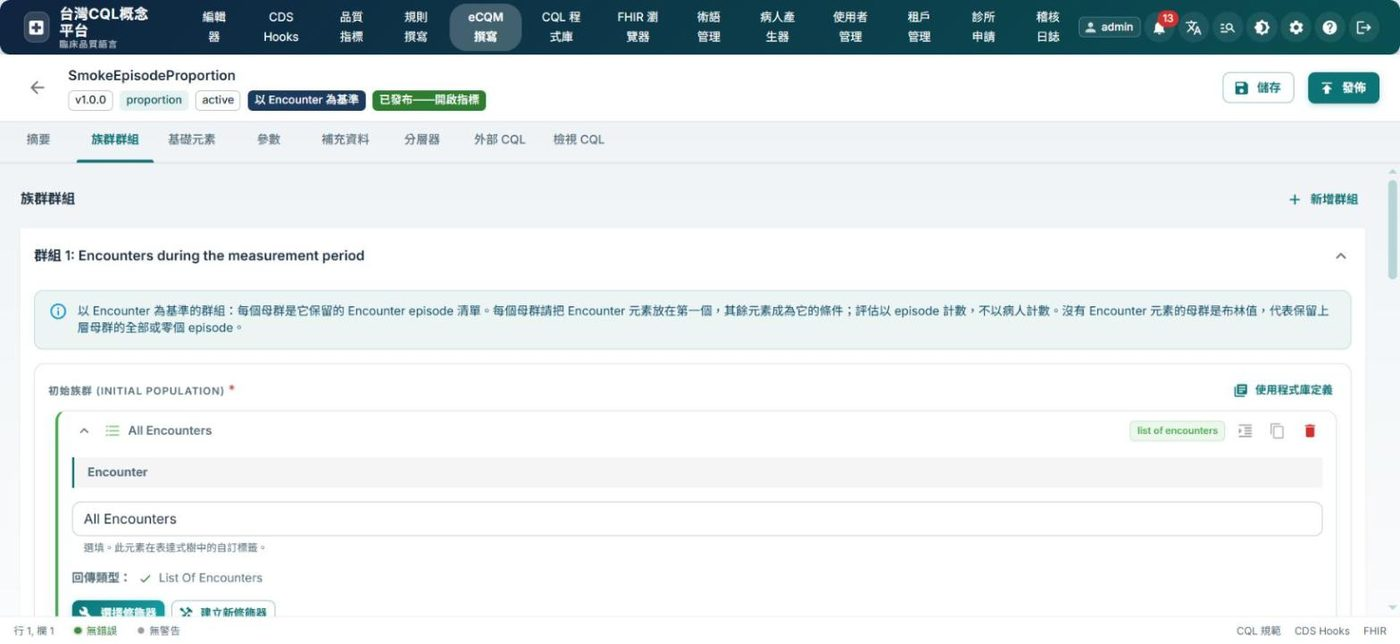
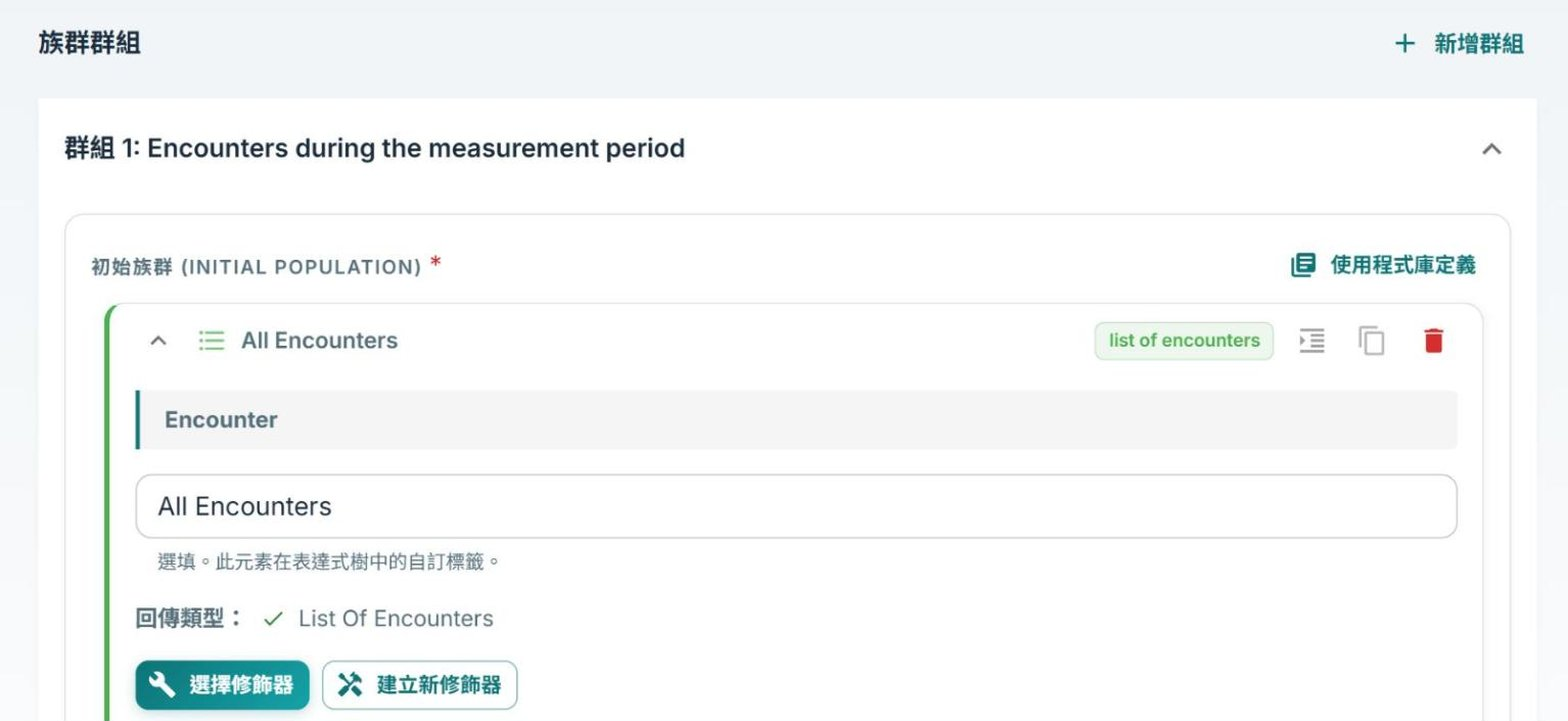
feat: 首頁 7 張產品截圖重拍 — 只拍畫面重點、CSS transform 放大到可讀、WebP 優先 + JPEG 後備，換掉糊掉又掛舊名的舊圖 (#PAT-254)
舊圖是 1× 擷取整個 1568 px 視窗縮到 1400 寬、JPEG q79，塞進約 600 px 的框後文字糊成一團，app bar
還是「台灣CQL概念平台」。重拍：本機 smoke 堆疊（合成資料）+ dev server，用 transform: scale() 把
1000–1200 px 寬的重點區域放大到擷取框（不 reflow，等效 1.4～1.6× 點陣化），每張一個畫面重點。
輸出 1568×721（長寬比不變）WebP q85 + JPEG q85；Screenshot 元件改 <picture>（WebP 優先，src 仍指
.jpg，既有測試不變）。7 張 WebP 共 223 KB（舊 JPEG 540 KB）。

Claude-Session: https://claude.ai/code/session_01GLNTeLjEKRAiPKrTLRBWNt

diff --git a/frontend/src/pages/HomePage.tsx b/frontend/src/pages/HomePage.tsx
@@ -86,23 +86,31 @@ function SectionTitle({ title, subtitle, id }: { title: string; subtitle?: strin
   )
 }
 
+/**
+ * PAT-254: the captures are 1568×721 at true 2× (a 784×360 CSS-px region of the app rendered at
+ * double scale), so text stays legible in the ~600 px wide boxes and on HiDPI screens. WebP first,
+ * the JPEG of the same name as the fallback (`src` always names the .jpg).
+ */
 function Screenshot({ src, alt }: { src: string; alt: string }) {
   return (
-    <Box
-      component="img"
-      src={src}
-      alt={alt}
-      loading="lazy"
-      sx={{
-        width: '100%',
-        display: 'block',
-        borderRadius: 2,
-        border: '1px solid',
-        borderColor: 'divider',
-        boxShadow: (theme) => `0 12px 32px ${alpha(theme.palette.common.black, 0.12)}`,
-        bgcolor: 'background.paper',
-      }}
-    />
+    <picture>
+      <source type="image/webp" srcSet={src.replace(/\.jpg$/, '.webp')} />
+      <Box
+        component="img"
+        src={src}
+        alt={alt}
+        loading="lazy"
+        sx={{
+          width: '100%',
+          display: 'block',
+          borderRadius: 2,
+          border: '1px solid',
+          borderColor: 'divider',
+          boxShadow: (theme) => `0 12px 32px ${alpha(theme.palette.common.black, 0.12)}`,
+          bgcolor: 'background.paper',
+        }}
+      />
+    </picture>
   )
 }
 

diff --git a/docs/CHANGE_LOG.md b/docs/CHANGE_LOG.md
@@ -9,6 +9,7 @@
 
 | ID | 類型 | 日期 | 範圍 | 標題 | 備註 | Commit |
 |-----|------|------|------|------|------|--------|
+| PAT-254 | ✨ feat | 2026-10-07 | 前端 `pages/HomePage.tsx`（`Screenshot` 元件）、`public/screenshots/*.webp`（新）+ `*.jpg`（重拍） | **首頁 7 張產品截圖重拍** — 舊圖是 1× 擷取整個 1568 px 視窗再縮到 1400 寬、JPEG 品質 79，塞進約 600 px 的框後 UI 文字糊成一團，而且 app bar 還是舊名「台灣CQL概念平台」。重拍：本機 smoke 堆疊（合成資料）+ dev server，以 CSS `transform: scale()` 把 1000–1200 px 寬的**重點區域**放大到整個擷取框（不觸發 reflow、文字以放大後尺寸重新點陣化，等效 1.4～1.6×），每張只拍一個畫面重點（builder 族群群組、摘要表單、病人產生器、測試案例通過 / 失敗列表、評估結果分數 + 族群計數、指標工作區標頭、eCQM 儀表板）；輸出 1568×721（與舊圖同長寬比，版面不動）WebP q85 + JPEG q85 後備，`Screenshot` 改 `<picture>`（WebP 優先、`src` 仍指 .jpg，既有測試不變）。7 張 WebP 共 223 KB（舊 JPEG 540 KB）。擷圖時對堆疊資料做的只有顯示用的標題 / 名稱（合成資料，不含真實病人） | |
 | BUG-149 | 🐛 fix | 2026-10-07 | 前端 `pages/HomePage.tsx` | **首頁 hero 主標題與結尾 CTA 標題在品牌漸層上看不見** — `theme.ts` 的 typography 把 `h1`～`h4` 的 `color` 一律設成 `secondary.main`（#1B3A5C，正是 hero 漸層的收尾色），variant 自己的顏色蓋過 hero 容器的 `color: 'common.white'`，主標題變成 navy 壓在 teal → navy 漸層上；結尾 CTA 的標題同病。兩處明寫 `color: 'common.white'`；登入頁 hero 的 h3 本來就有。theme 預設不動（白底內容頁的標題對比正常）。教訓：放在漸層 / 深色底上的 MUI heading 一律明寫顏色 |[`033904b`](../../commit/033904b) |
 | PAT-253 | ✨ feat | 2026-10-06 | `V79__measure_set_and_edit_locks.sql`（+ rollback）、`entity/MeasureSetEntity`（新）、`repository/MeasureSetRepository`（新）、`service/measure/MeasureSetService`（新）、`util/EditLock`（新）、`exception/ResourceLockedException`（新）、`MeasureDefinitionService`、`TestCaseService`、`CqlLibraryService`、`EcqmPublishService`、`DataInitializer`、`MeasureController`、`CqlController`、`AuthoringController`、`GlobalExceptionHandler`、前端 `TestCasesTab` / `TestCaseEditor` / `CqlLibraryWorkspace` / `measureApi` / `cqlApi` / `useCqlLibraries` / `types`、`locales/*/measures.json` / `cqlLibraries.json`、smoke `42-measure-set-locks` | **指標集（measure set）血統 + 測試案例 / CQL 程式庫編輯鎖（對照 MADiE 缺口第 9 項）** — 以前版本靠 (tenant, name) 串起來：改名一個版本就把它踢出歷史、核准時退役不到它，同名的無關指標反而被算進來。現在每個指標屬於一個 `measure_set`（V79 依 (tenant_id, name) 回填、NOT NULL）：`create` 開新 set、`createVersionAs` 沿用、builder 第一次 publish 開、示範指標也開；改名只改 set 的名字。history、版本號唯一、核准時退役舊 active 版、分享 / 轉移 / 存取層級全部以 set 為準（分享套到整個 set，reviewer 看得到新草稿）。編輯鎖：`util/EditLock` 一條規則三處共用（`lockedBy` + `lockedAt`，逾 `measure.locking.timeout-minutes` 視同沒鎖，DTO 只回報有效鎖並附 `lockExpiresAt`）；非持有者的寫入一律 409 `Locked`（指標以前是 400）。測試案例 `POST …/test-cases/{id}/lock|unlock`，update / delete / 平移（整批先檢查再動）受鎖；程式庫 `POST /api/cql/libraries/{id}/lock|unlock`，save 落在同名同版本 / update / delete 受鎖，持有者改 header 換 id 時鎖跟著搬；解鎖限持有者或擁有者；**經 API 建立的程式庫現在以建立者為擁有者**（以前沒有擁有者，`OwnershipVerifier` fail-closed → 非管理員連自己建的程式庫都不能改或鎖）。前端列上鎖圖示 / chip、編輯器橫幅、程式庫工作區鎖 / 解鎖按鈕 + 唯讀。測試：`EditLockTest`、`MeasureDefinitionServiceMeasureSetTest`、`MeasureSetLineageIntegrationTest`（H2 全流程）、`TestCaseServiceLockTest`、`CqlLibraryServiceLockTest`、`TenantRlsIntegrationTest` 直接 insert 補 set；smoke 42 走 demo / admin 兩個編輯者（CI 首輪抓到一個真 race：背景 FHIR 驗證在 executor 上以 `this` 呼叫 `validateNow`、沒有交易，載入的 entity 是 detached，驗證完 `save` = merge 把舊快照（鎖 = null）整個蓋回去 → 改 `TestCaseRepository.storeValidation` 針對性 UPDATE 只寫驗證三欄；`TestCaseEntity` 另加 `@DynamicUpdate` 保護交易內的慢路徑（執行結果）；`TestCaseLockConcurrencyIntegrationTest` 兩條路徑都鎖住）。**CMS ID 不做**（院內 + 跨院交換不需要） |[`ca1f4d2`](../../commit/ca1f4d2) |
 | PAT-252 | ✨ feat | 2026-10-06 | `locales/*/common.json`（`app.title`）、`locales/*/landing.json`、`index.html`、`public/og-image.png`、`public/sitemap.xml`、後端 `EmailService` | **平台更名：台灣CQL概念平台 → 台灣CQL臨床品質平台**（Taiwan CQL Concept Platform → Taiwan CQL Clinical Quality Platform）——「概念」說不出服務內容。同步：應用程式標頭 / 登入頁 / 頁尾（都讀 `common.app.title`）、學習中心與首頁的 SEO 標題、`index.html` 的 title / author / og / twitter / JSON-LD、重新產生 `og-image.png`（1200×630，同風格）、臨時密碼與重設密碼信件的主旨與標頭、sitemap 註解。網域與英文簡稱 twcql 不變。 | 需求 #1000（A 級）；無 migration | |

diff --git a/CLAUDE.md b/CLAUDE.md
@@ -117,7 +117,7 @@ cd frontend && python scripts/check-i18n-sync.py   # en / zh-TW key 同步檢查
 - Commit 格式: `feat|fix|docs|refactor: 描述 (#PAT-NNN)`（或 `(#BUG-NNN)`）
 - 每次 commit 後更新 `docs/CHANGE_LOG.md`（表格格式，繁體中文）；純文件同步的 `docs:` commit 慣例上不加列
 - **commit 欄位留空**（結尾 `| |`）——PR merge 後 `changelog-backfill.yml` workflow 會自動填入 hash
-- ID 格式: `PAT-###`（功能/修補）、`BUG-###`（修復）；目前最新 PAT-253 / BUG-149
+- ID 格式: `PAT-###`（功能/修補）、`BUG-###`（修復）；目前最新 PAT-254 / BUG-149
 - 本機手動回填：`scripts/changelog/fill-hash.sh --commit`（跑 `.github/scripts/changelog-backfill.py`）
 - PR 是 **squash merge**；本機分支 merge 後會看起來永遠 1 ahead / 1 behind，別誤判
 
